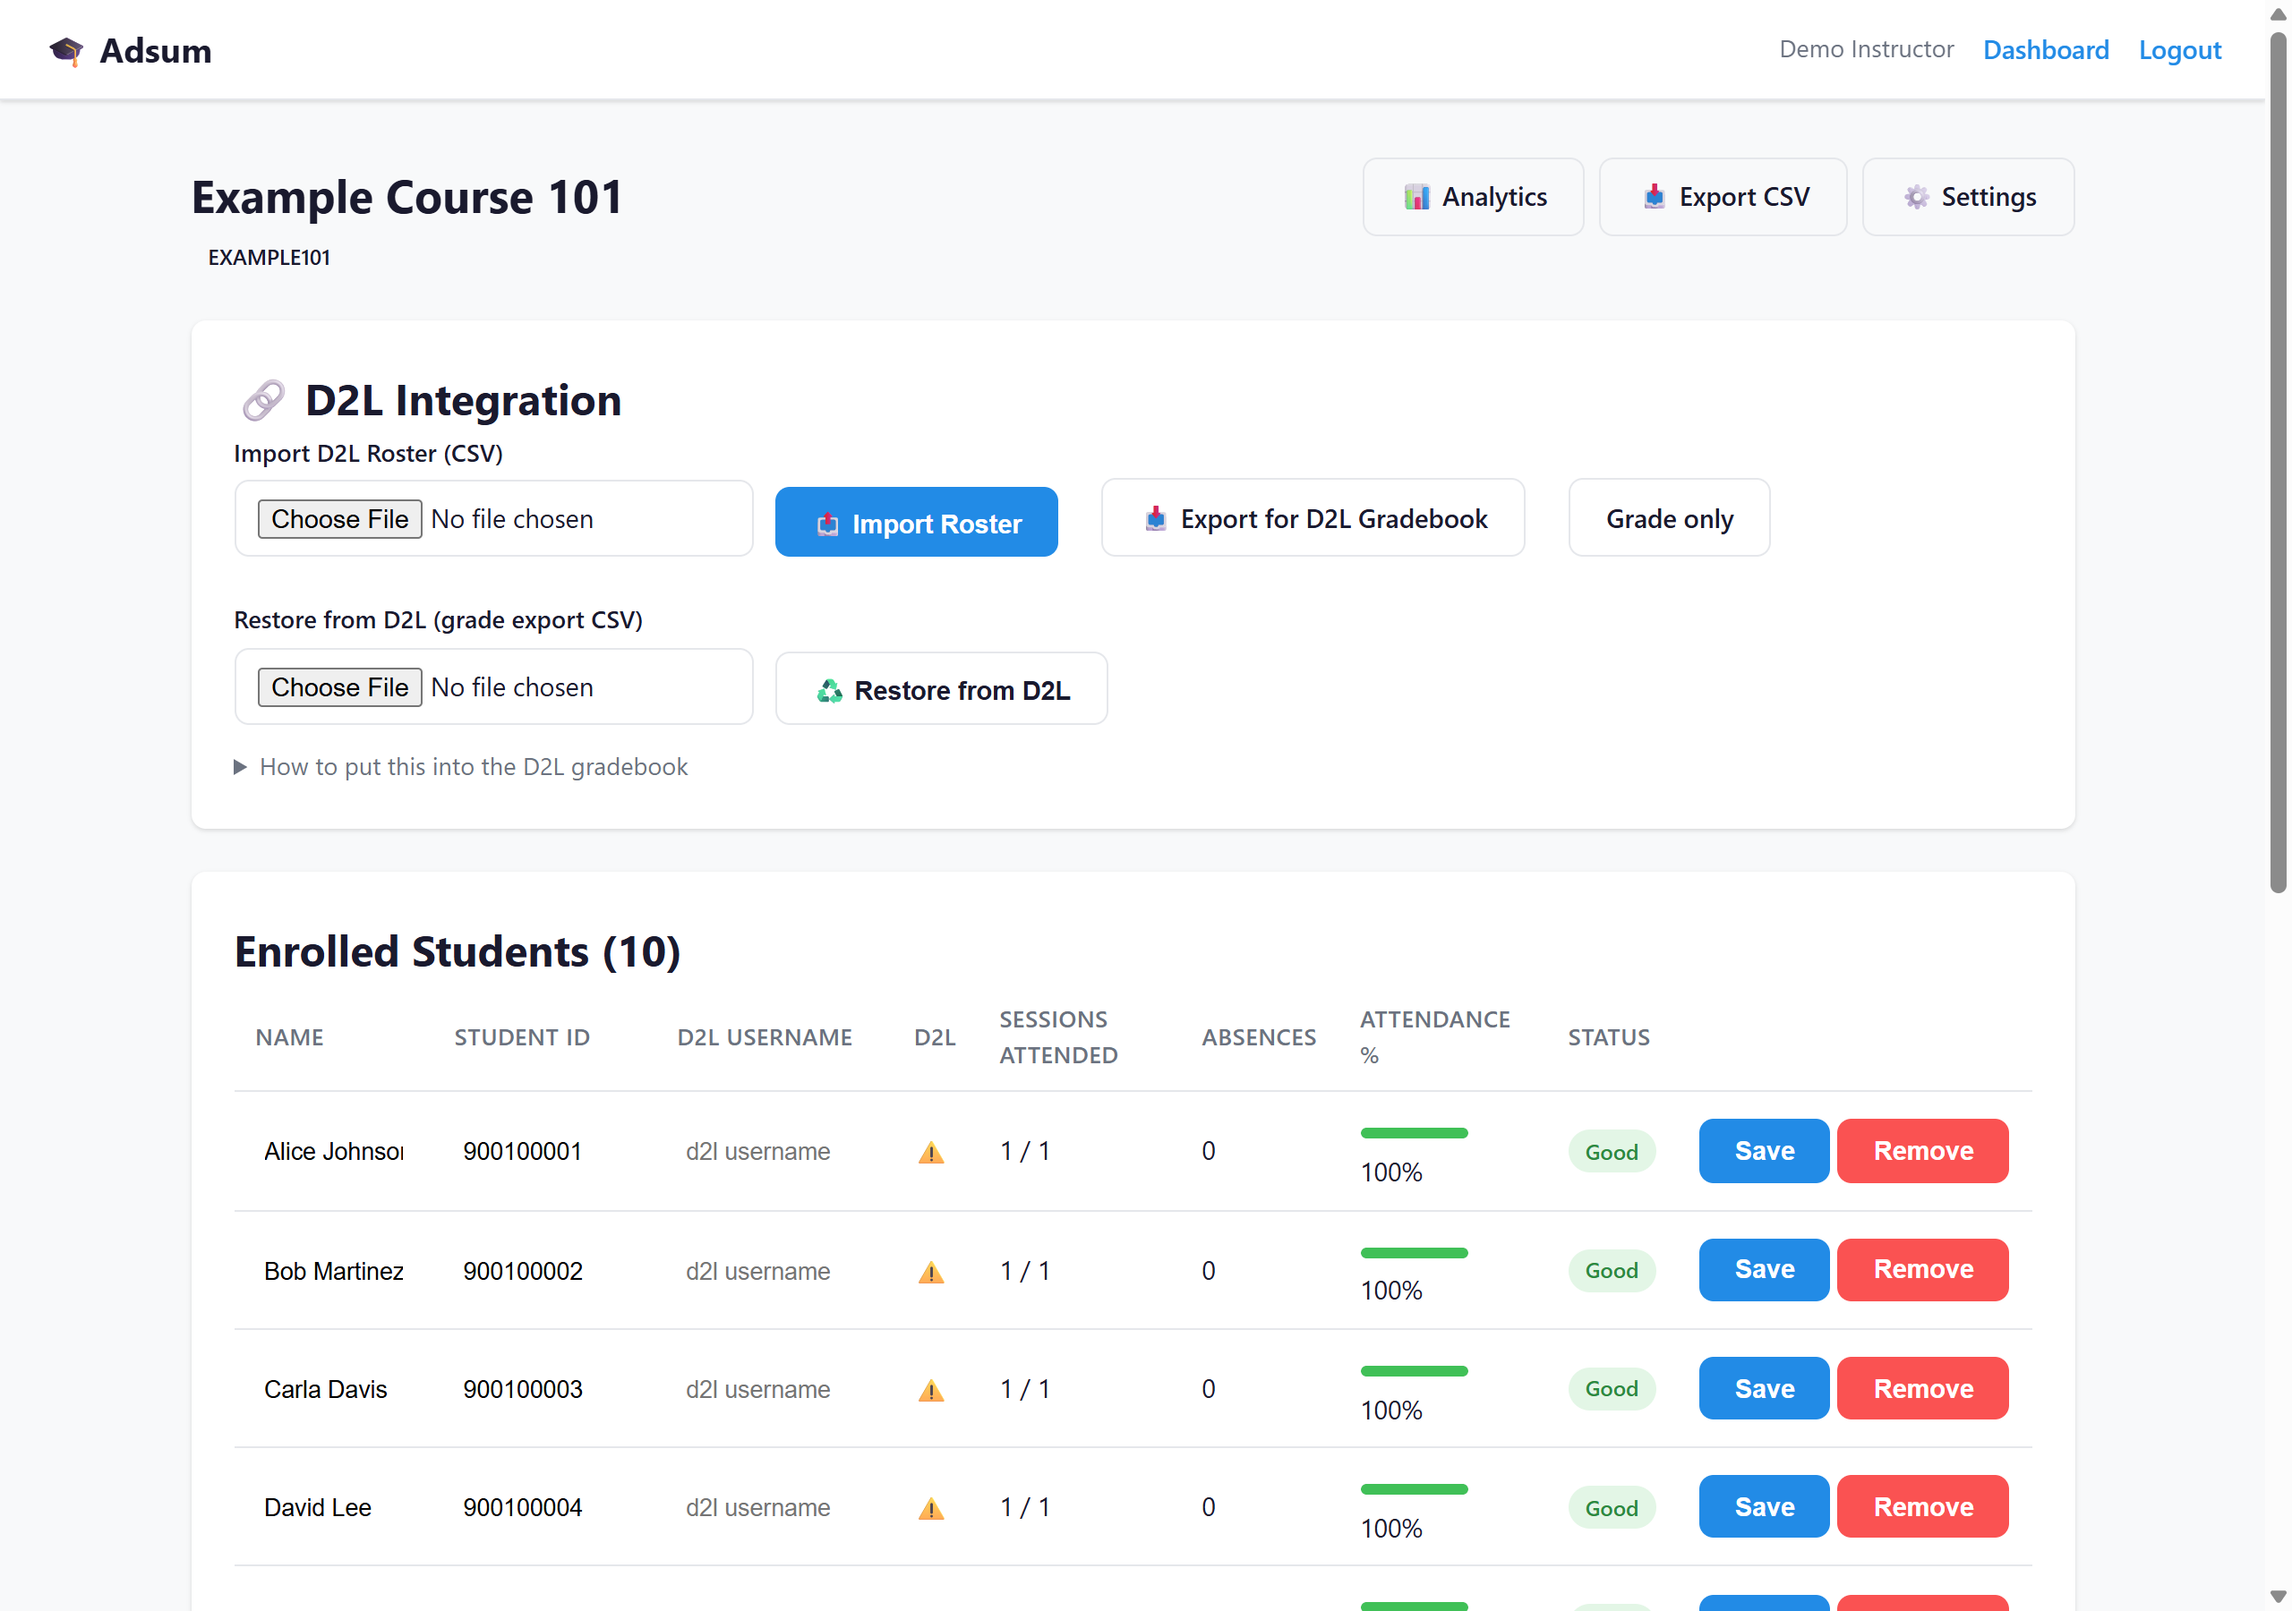
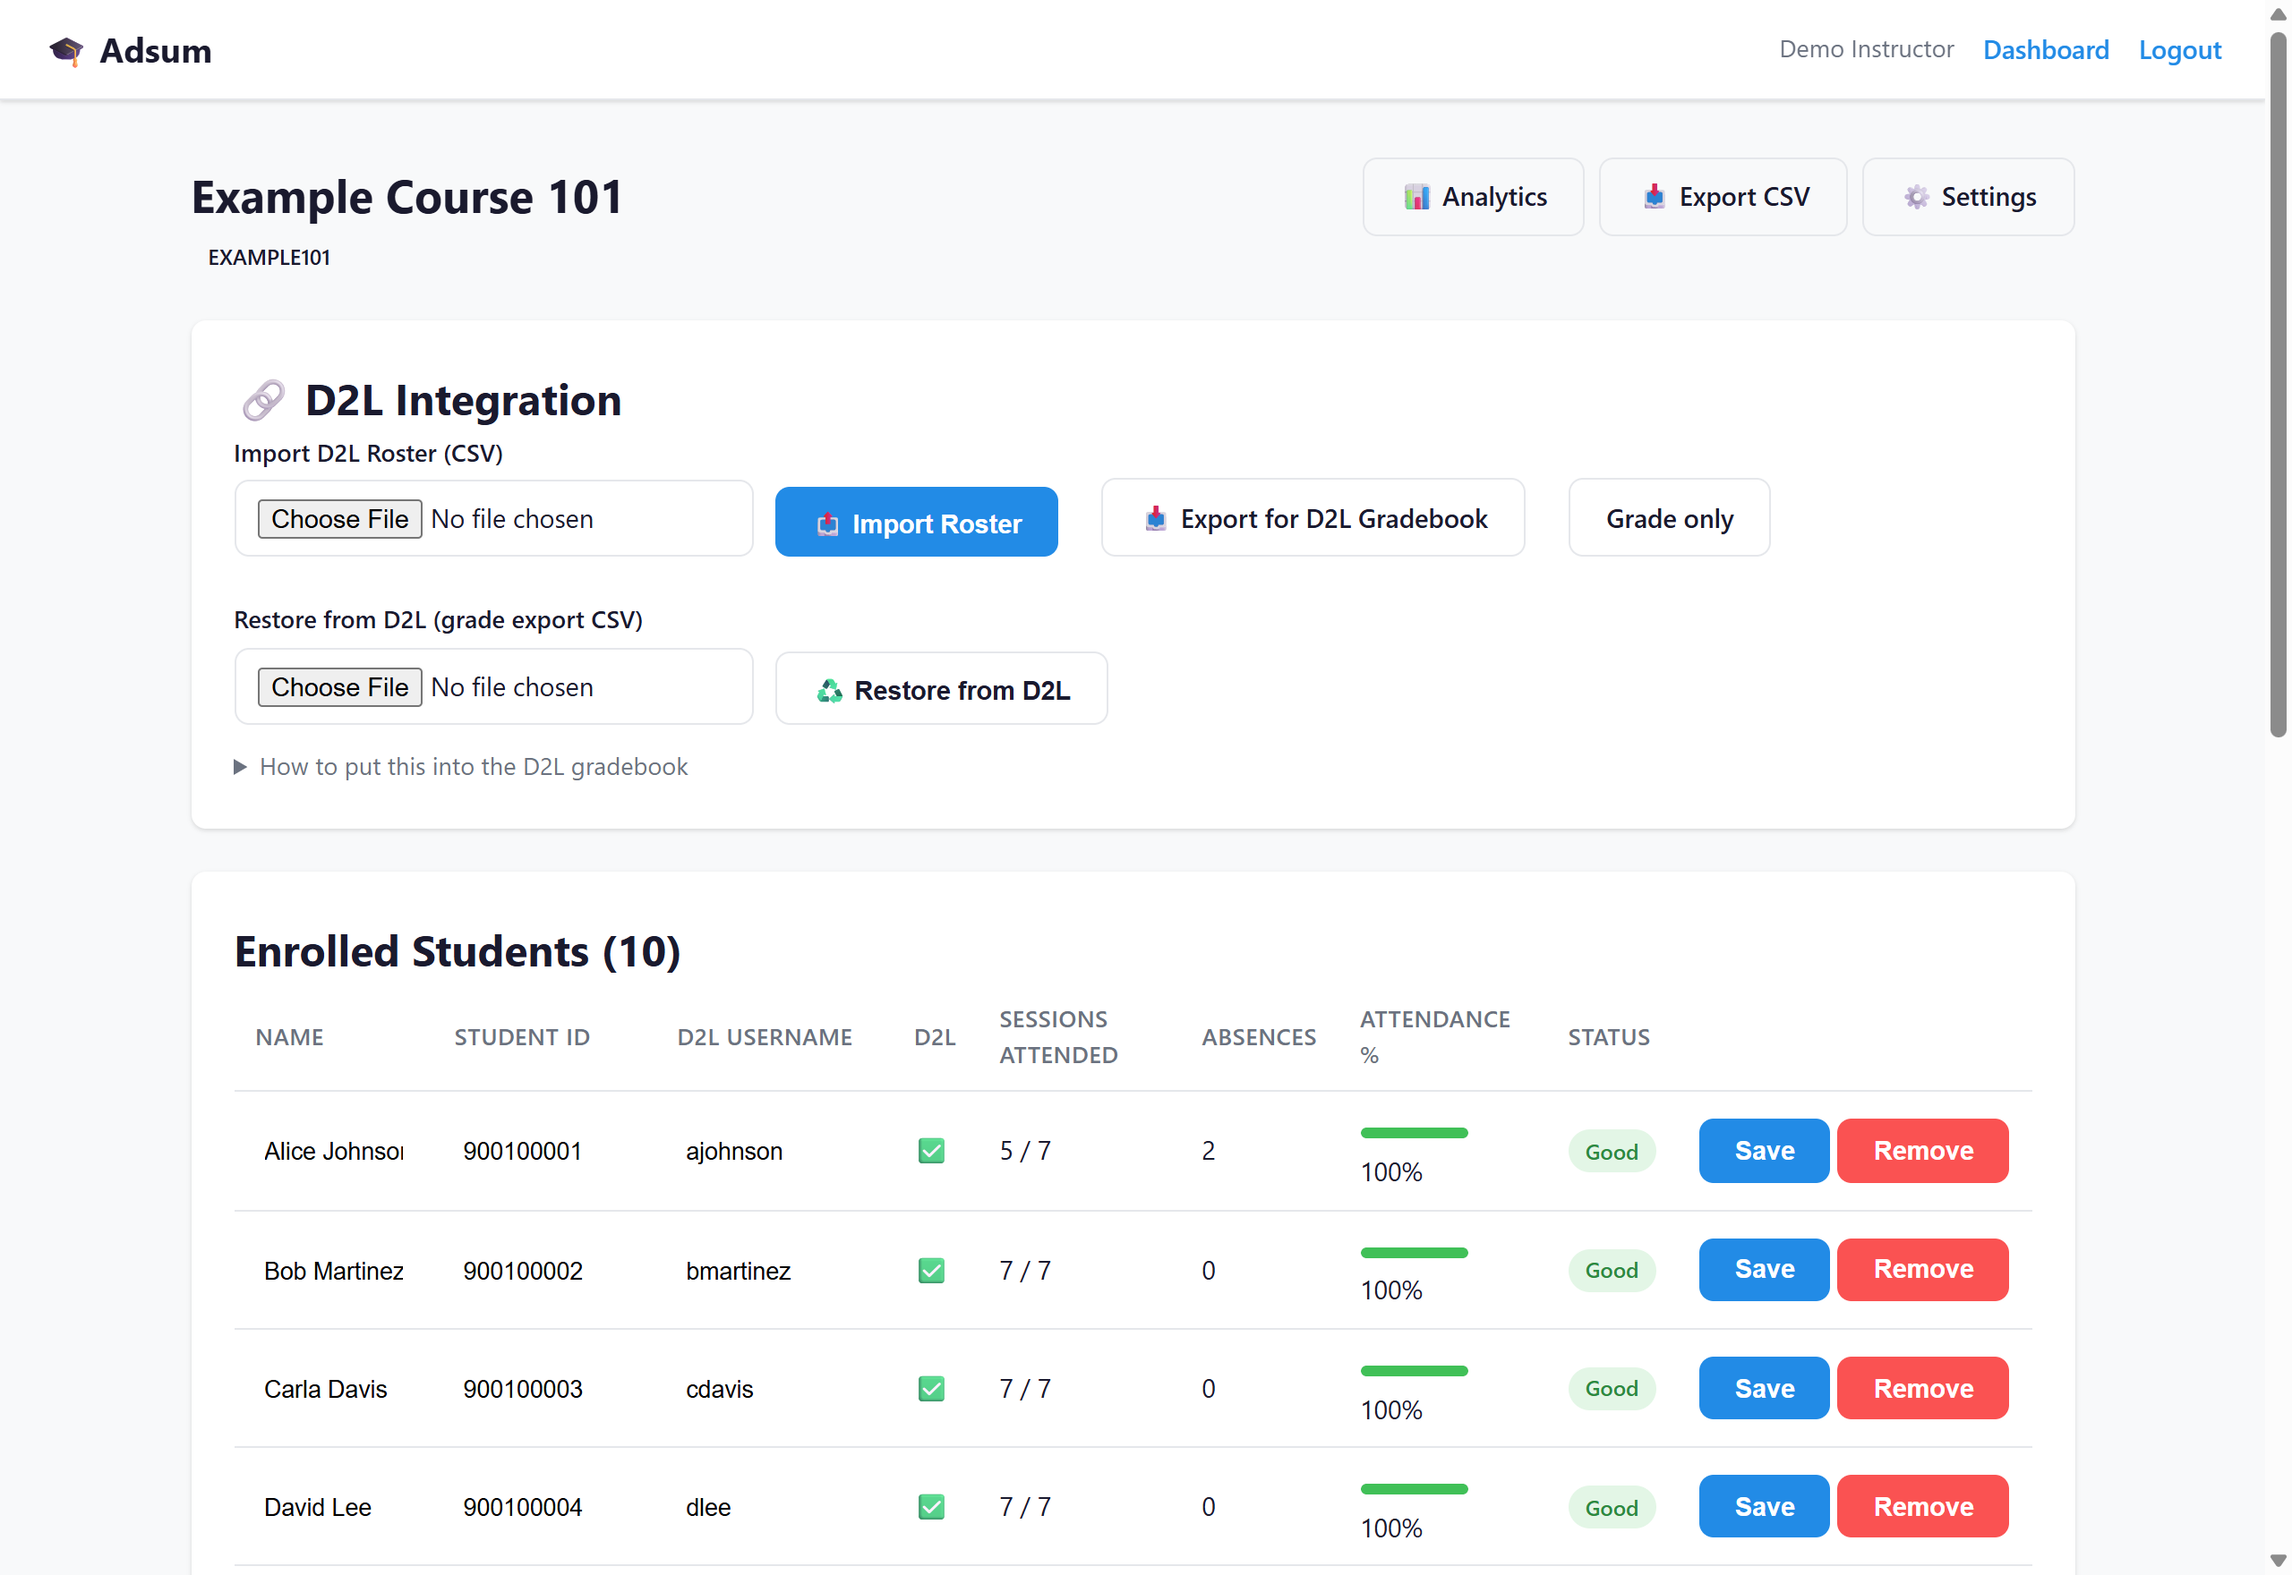
Fix a layout bug that collapsed sparse pages, and add screenshots
The .container is a flex item in a column-flex body, and 'margin: 0 auto'
absorbs the cross-axis free space, which cancels the default stretch. The
container therefore sized to fit-content: at 1280px wide the dashboard and
analytics pages rendered in a ~420px strip instead of 1100px. Table-heavy
pages filled the width on their own, which is why it was never noticed.
An explicit width:100% restores the intended layout, with a comment so it is
not 'tidied away' as redundant later.

Taking screenshots is what surfaced it, along with two more:
  - Every attendance row showed an unexplained warning triangle whose only
    explanation was a title= tooltip, invisible on a phone and in a
    screenshot. A real legend now appears whenever a row is unmatched, and
    the live SSE table keeps it in sync.
  - The demo roster had no d2l_username and was not marked verified, so every
    seeded student looked unmatched and the demo could not exercise the
    gradebook export at all. It now simulates an imported D2L class list.

README gains a screenshots section generated from the demo data, so no real
student appears.

diff --git a/app/static/style.css b/app/static/style.css
@@ -61,6 +61,13 @@ body {
 
 /* ─── Container ────────────────────── */
 .container {
+    /* width:100% is required, not redundant. The body is a column flex
+       container, and `margin: 0 auto` on a flex item absorbs the free space
+       in the cross axis, which cancels the default stretch. Without it the
+       container collapses to fit-content, so sparse pages (dashboard,
+       analytics) rendered in a narrow strip while table-heavy pages looked
+       fine -- which is why it went unnoticed. */
+    width: 100%;
     max-width: 1100px;
     margin: 0 auto;
     padding: 2rem 1.5rem;

diff --git a/README.md b/README.md
@@ -17,6 +17,24 @@ attendance grade and a complete per-date record into the gradebook.
 Built by an instructor for his own classes, and released under the MIT licence
 in case it is useful elsewhere.
 
+## Screenshots
+
+**Live session.** The instructor projects the QR code; the roster fills in as
+students scan. Anyone whose phone fails is marked present with one click.
+
+![Live session with rotating QR code and live attendance list](docs/images/session.png)
+
+**Course.** Roster, session history, attendance percentages, and the export
+that feeds the D2L gradebook.
+
+![Course page showing roster and session history](docs/images/course.png)
+
+**Analytics.** Attendance trend across the term.
+
+![Analytics page with attendance trend chart](docs/images/analytics.png)
+
+*All screenshots use the built-in demo data; no real students appear.*
+
 ## Why it exists
 
 D2L has a built-in Attendance tool, but attendance must be entered by hand,
